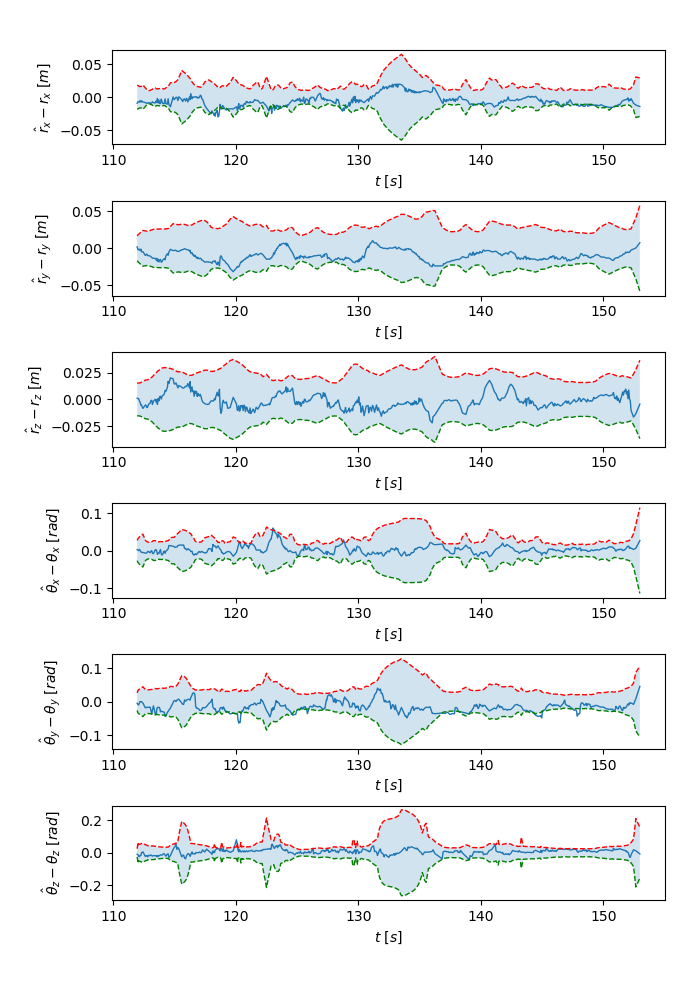
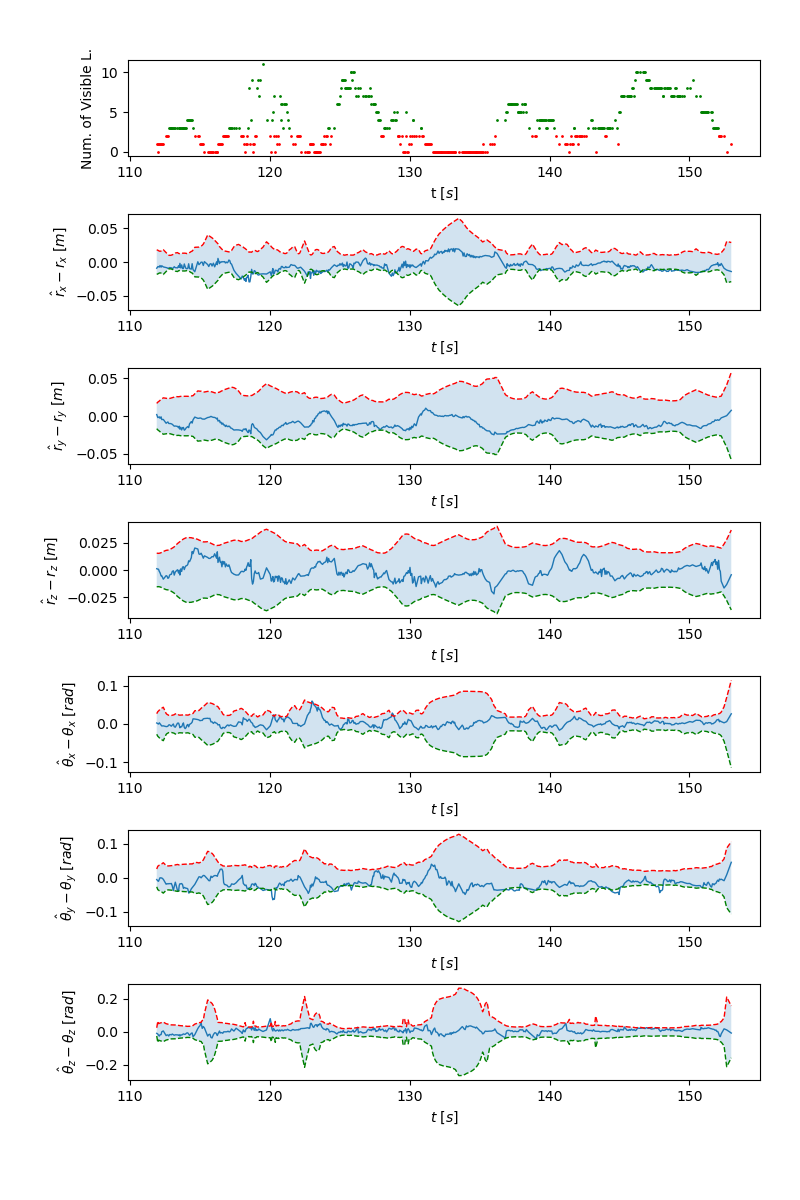
plot update

diff --git a/code/ass3.py b/code/ass3.py
@@ -67,7 +67,7 @@ class Estimator:
     self.y_k_j = data["y_k_j"].transpose((1, 2, 0))[..., None]  # measurements (1900, 20, 4, 1)
     self.y_filter = np.where(self.y_k_j == -1, 0, 1)  # [..., 0, 0] # filter (1900, 20, 4, 1)
 
-    # TODO compute the values at each time step
+    # covariances
     w_var, v_var, y_var = data["w_var"], data["v_var"], data["y_var"]
     w_var_inv = np.reciprocal(w_var.squeeze())
     v_var_inv = np.reciprocal(v_var.squeeze())
@@ -111,9 +111,9 @@ class Estimator:
     k2 = self.k2 if k2 is None else k2
 
     # self.hat_T_vk_i[k1] = self.T_vk_i[k1]  # force to ground truth
-    # self.hat_P[k1] = 1e-3 * np.eye(6)
+    # self.hat_P[k1] = 1e-3 * np.eye(6)      # force to ground truth
     for k in range(k1 + 1, k2 + 1):
-      # TODO: need to check initialization, input time step is strange
+      # TODO: need to check initialization, input time step is strange (but same as in assignment)
       # mean
       self.hat_T_vk_i[k] = self.f(self.hat_T_vk_i[k - 1], self.varpi_vk_i_vk[k - 1], self.dt[k])
       # covariance
@@ -151,7 +151,7 @@ class Estimator:
     # First input factor
     # error
     T = self.hat_T_vk_i[k1]
-    T_prior = self.init_T_vk_i[k1]  # T_prior = self.T_vk_i[k1]
+    T_prior = self.init_T_vk_i[k1]
     e_v0 = self.e_v0(T_prior, T)
     # Jacobian
     H_v0 = np.zeros((6, (k2 - k1 + 1) * 6))
@@ -178,10 +178,9 @@ class Estimator:
     Q_inv = cpla.block_diag(*Q_inv)
 
     # Measurement errors
-    p = self.rho_i_pj_i[k1:k2 + 1]  # .reshape(-1, *self.rho_i_pj_i.shape[-2:])
-    y = self.y_k_j[k1:k2 + 1]  # .reshape(-1, *self.y_k_j.shape[-2:])
+    p = self.rho_i_pj_i[k1:k2 + 1]
+    y = self.y_k_j[k1:k2 + 1]
     T = np.repeat(self.hat_T_vk_i[k1:k2 + 1][:, None, ...], self.y_k_j.shape[1], axis=1)
-    # T = T.reshape(-1, *T.shape[-2:])
     # error
     e_y = self.e_y(y, p, T).reshape(-1, 1)
     # Jacobian
@@ -260,8 +259,8 @@ class Estimator:
     ax = fig.add_subplot(111)
     ax.scatter(self.t[green], num_meas[green], s=1, c='green')
     ax.scatter(self.t[red], num_meas[red], s=1, c='red')
-    ax.set_xlabel(r'time [$s$]')
-    ax.set_ylabel(r'number of visible landmarks')
+    ax.set_xlabel(r't [$s$]')
+    ax.set_ylabel(r'Number of Visible Landmarks')
     fig.savefig('num_visible.png')
     plt.show()
 
@@ -280,13 +279,25 @@ class Estimator:
     t = self.t[k1:k2 + 1]
     stds = self.hat_stds[k1:k2 + 1, :]
 
+    # plot landmarks for reference
+    num_meas = np.sum(self.y_filter[k1:k2 + 1, :, 0, 0], axis=-1)
+    green = np.argwhere(num_meas >= 3)
+    red = np.argwhere(num_meas < 3)
+
+    plot_number = 711
     fig = plt.figure()
-    fig.set_size_inches(7, 10)
-    fig.subplots_adjust(left=0.16, right=0.95, bottom=0.1, top=0.95, wspace=0.6, hspace=0.6)
+    fig.set_size_inches(8, 12)
+    fig.subplots_adjust(left=0.16, right=0.95, bottom=0.1, top=0.95, wspace=0.7, hspace=0.6)
+
+    plt.subplot(plot_number)
+    plt.scatter(t[green], num_meas[green], s=1, c='green')
+    plt.scatter(t[red], num_meas[red], s=1, c='red')
+    plt.xlabel(r't [$s$]')
+    plt.ylabel(r'Num. of Visible L.')
 
     labels = ['x', 'y', 'z']
     for i in range(3):
-      plt.subplot(611 + i)
+      plt.subplot(plot_number + 1 + i)
       plt.plot(t, trans_err[k1:k2 + 1, i].flatten(), '-', linewidth=1.0)
       plt.plot(t, 3 * stds[:, i], 'r--', linewidth=1.0)
       plt.plot(t, -3 * stds[:, i], 'g--', linewidth=1.0)
@@ -294,7 +305,7 @@ class Estimator:
       plt.xlabel(r"$t$ [$s$]")
       plt.ylabel(r"$\hat{r}_x - r_x$ [$m$]".replace("x", labels[i]))
     for i in range(3):
-      plt.subplot(614 + i)
+      plt.subplot(plot_number + 4 + i)
       plt.plot(t, rot_err[k1:k2 + 1, i].flatten(), '-', linewidth=1.0)
       plt.plot(t, 3 * stds[:, 3 + i], 'r--', linewidth=1.0)
       plt.plot(t, -3 * stds[:, 3 + i], 'g--', linewidth=1.0)
@@ -305,9 +316,6 @@ class Estimator:
     fig.savefig('{}.png'.format(filename))
     plt.show()
     plt.close()
-
-  # def get_estimate(self, k1=0, k2=None):
-  #   return self.hat_T_vk_i[k1:k2]
 
   def f(self, T, v, dt):
     """
@@ -326,6 +334,10 @@ class Estimator:
     return se3.expm(dt * se3.curly_wedge_op(v))
 
   def e_v0(self, T_prior, T):
+    """
+    Vectorized
+    initial error
+    """
     return se3.vee_op(se3.logm(T_prior @ npla.inv(T)))
 
   def e_v(self, T2, T, v, dt):
